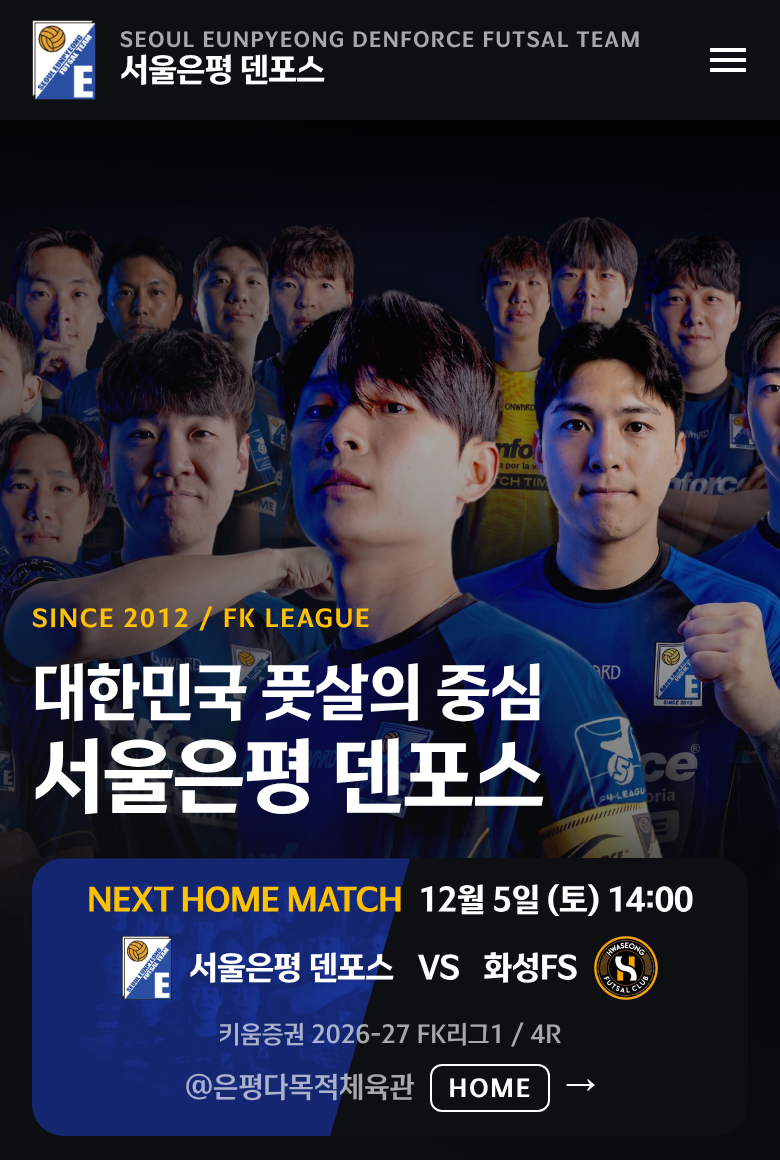
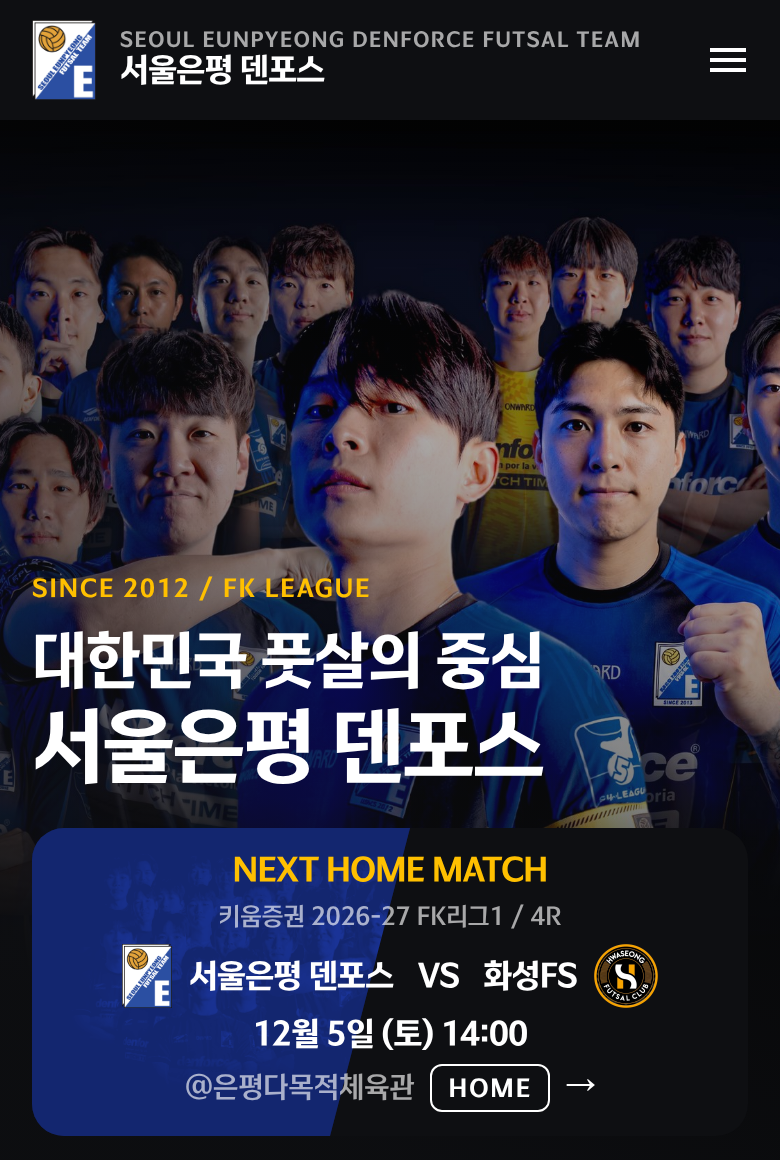
휴대폰 다음 홈경기 띠 순서 바꿈: 라벨 / 대회 / 대진 / 날짜 / 장소 5줄, 줄 사이 4, 안 쓰이는 휴대폰 카드 규칙 정리 (D-089, I-063)
Claude-Session: https://claude.ai/code/session_015na33bHmUEDGFhNLp3LnQp

Changed region(s): [[0.0308, 0.4966, 0.8923, 0.931]]

diff --git a/sites/eunpyeong-denforce/src/components/home/NextMatchHero.module.css b/sites/eunpyeong-denforce/src/components/home/NextMatchHero.module.css
@@ -171,86 +171,11 @@
   min-height: 44px;
 }
 
-@media (max-width: 720px) {
-  .card {
-    --nmh-pad: var(--space-m);
-    --nmh-col: 135px;
-    --nmh-vs: 40px;
-    --nmh-crest: 72px;
-    --nmh-split-top: 10px;
-    --nmh-split-bottom: 30px;
-    gap: var(--space-s);
-    padding: var(--nmh-pad);
-    /* 391~720 넓은 휴대폰(412 / 430 등): 카드는 358 그대로 가운데 (D-087). 390 이하는 꽉 차서 그대로 */
-    margin-inline: auto;
-  }
-
-  .team {
-    gap: var(--space-s);
-  }
-
-  /* 휴대폰은 A 이전 순서 그대로: 라벨 → 대진 → 대회 → 날짜 → @장소 + HOME → 버튼 */
-  .meta {
-    display: contents;
-  }
-
-  .meta > :first-child {
-    order: 2;
-  }
-
-  .date {
-    order: 3;
-  }
-
-  .venue {
-    order: 4;
-  }
-
-  .buttons {
-    order: 5;
-  }
-
-  .label {
-    font-size: 16px;
-  }
-
-  .teamName {
-    font-size: 20px;
-  }
-
-  .vs {
-    font-size: 28px;
-  }
-
-  .date {
-    font-size: 22px;
-  }
-
-  .button {
-    flex: 1;
-    width: auto;
-  }
-}
-
-/* 390 미만 좁은 휴대폰(375 SE/mini 포함): 팀 이름 kfa/m/h4 16, 엠블럼 칸 64 — 첫 화면 580 안 (디자인 d162b69, 768831c).
-   320 은 두 줄이 될 수 있고 첫 화면을 조금 넘는 것을 받아들인다 */
-@media (max-width: 389px) {
-  .card {
-    --nmh-crest: 64px;
-  }
-
-  .team > span:first-child {
-    --crest: 64px;
-  }
-
-  .teamName {
-    font-size: 16px;
-  }
-}
-
-/* ── 휴대폰 작은 띠 A 가운데 3줄 (D-088, 피그마 274:26795) ──────────────
-   721 이상은 위 카드(.wide), 720 이하는 띠(.strip). 폭 화면 - 32(히어로 안쪽 그대로), 높이(KFA고딕 실측) 320 168 / 360 162 / 375~430 139 / 480~720 116 / 390 긴 이름 145.
-   안쪽 여백 위아래 space/s 좌우 space/m, 줄 사이 space/xs, 줄 안 줄바꿈 사이 space/2xs. 파랑 반쪽 +10 / -30 + (다) 질감 그대로 */
+/* ── 휴대폰 작은 띠 A, 순서 바꿈 5줄 (D-089, 피그마 279:27004 / 279:27049 / 279:27094 / 279:27139) ──────────────
+   721 이상은 위 카드(.wide), 720 이하는 띠(.strip) — 휴대폰용 .card 규칙(예전 큰 카드)은 쓰이지 않아 지움(I-063).
+   ① NEXT HOME MATCH ② 대회/라운드 ③ 대진 ④ 날짜/시간 ⑤ @장소 + HOME + →. 줄 안 줄바꿈 없음(긴 상대 이름만 2줄).
+   폭 화면 - 32, 안쪽 여백 위아래 space/s 좌우 space/m, 줄 사이 space/2xs. 파랑 반쪽 +10 / -30 + (다) 질감 그대로.
+   높이(KFA고딕) 약 154, 390 긴 이름 160 */
 .stripWrap {
   display: none;
 }
@@ -269,20 +194,15 @@
     --nmh-split-top: 10px;
     --nmh-split-bottom: 30px;
     width: 100%;
-    gap: var(--space-xs);
+    gap: var(--space-2xs);
     padding: var(--space-s) var(--space-m);
     margin-inline: 0;
     text-decoration: none;
   }
 
-  /* 줄 1(라벨 + 날짜), 줄 3(대회 + 장소 덩어리) — 좁으면 덩어리째 다음 줄로, 사이 space/2xs (I-062, 디자인 f46f3d6) */
-  .stripRow {
-    position: relative;
-    display: flex;
-    flex-wrap: wrap;
-    align-items: center;
-    justify-content: center;
-    gap: var(--space-2xs) var(--space-xs);
+  /* NEXT HOME MATCH — kfa/m/h4 16 Bold yellow (넓은 카드는 20) */
+  .strip .label {
+    font-size: 16px;
   }
 
   /* [엠블럼 32 + 이름] VS [이름 + 엠블럼 32] — 엠블럼과 이름 space/xs, 이름과 VS space/s */

diff --git a/sites/eunpyeong-denforce/src/components/home/NextMatchHero.tsx b/sites/eunpyeong-denforce/src/components/home/NextMatchHero.tsx
@@ -82,8 +82,8 @@ function WideCard({ match, ourName, textured, style }: Props) {
 }
 
 /**
- * 휴대폰 작은 띠 A 가운데 3줄 (D-088, 피그마 274:26717 / 274:26795 / 274:26873 / 274:26951) — 폭 화면 - 32.
- * [NEXT HOME MATCH + 날짜] / [엠블럼 32 + 우리 이름, VS, 상대 이름 + 엠블럼] / [대회 + (@장소 + HOME + →)] — 줄 규칙은 KFA고딕 실측 기준(I-062, 디자인 f46f3d6).
+ * 휴대폰 작은 띠 A 순서 바꿈 5줄 (D-088 → D-089, 피그마 279:27004 / 279:27049 / 279:27094 / 279:27139) — 폭 화면 - 32.
+ * NEXT HOME MATCH / 대회, 라운드 / [엠블럼 32 + 우리 이름, VS, 상대 이름 + 엠블럼] / 날짜, 시간 / @장소 + HOME + →.
  * 카드 전체가 /match/schedule 링크 하나. 링크 이름은 보이는 글자 그대로 + '경기일정 보기'(→ 는 숨김), 라벨은 2단계 제목.
  */
 function PhoneStrip({ match, ourName, textured, style }: Props) {
@@ -93,14 +93,10 @@ function PhoneStrip({ match, ourName, textured, style }: Props) {
   return (
     <section className={styles.stripWrap} data-surface="dark" aria-labelledby="next-home-match-strip">
       <Link href="/match/schedule" className={`${styles.card} ${styles.strip} ${textured ? styles.textured : ""}`} style={style}>
-        <span className={styles.stripRow}>
-          <span id="next-home-match-strip" role="heading" aria-level={2} className={styles.label}>
-            NEXT HOME MATCH
-          </span>
-          <span className={styles.stripDate}>
-            {date} {time}
-          </span>
+        <span id="next-home-match-strip" role="heading" aria-level={2} className={styles.label}>
+          NEXT HOME MATCH
         </span>
+        <CompetitionTag text={matchLabel(match)} surface="dark" />
         <span className={styles.stripTeams}>
           <span className={styles.stripTeam}>
             <TeamCrest team={home} us={match.isHome} size={32} />
@@ -112,17 +108,17 @@ function PhoneStrip({ match, ourName, textured, style }: Props) {
             <TeamCrest team={away} us={!match.isHome} size={32} />
           </span>
         </span>
-        <span className={styles.stripRow}>
-          <CompetitionTag text={matchLabel(match)} surface="dark" />
-          <span className={styles.venue}>
-            {match.venue && <>@{match.venue}</>}
-            <HomeAwayBadge isHome={match.isHome} surface="dark" />
-            <span className={styles.arrow} aria-hidden="true">
-              →
-            </span>
-            {/* 카드 바로 아래 자식은 .card > * 가 position: relative 로 바꿔 자리를 차지하므로, 숨김 글자는 줄 안에 둔다 */}
-            <span className="sr-only">, 경기일정 보기</span>
+        <span className={styles.stripDate}>
+          {date} {time}
+        </span>
+        <span className={styles.venue}>
+          {match.venue && <>@{match.venue}</>}
+          <HomeAwayBadge isHome={match.isHome} surface="dark" />
+          <span className={styles.arrow} aria-hidden="true">
+            →
           </span>
+          {/* 카드 바로 아래 자식은 .card > * 가 position: relative 로 바꿔 자리를 차지하므로, 숨김 글자는 줄 안에 둔다 */}
+          <span className="sr-only">, 경기일정 보기</span>
         </span>
       </Link>
     </section>

diff --git a/sites/eunpyeong-denforce/docs/DECISION_LOG.md b/sites/eunpyeong-denforce/docs/DECISION_LOG.md
@@ -29,6 +29,12 @@
 
 <!-- 여기서부터 최신 항목을 위에 추가 -->
 
+## D-089 | 2026-11-14 | 휴대폰 다음 홈경기 띠 A 순서 바꿈: 5줄(라벨 / 대회 / 대진 / 날짜 / 장소), 줄 사이 4
+- **상태**: 채택, 기능 브랜치(배포는 총괄) (소유자 "순서 바꿈으로 ㄱㄱ", 디자인 섹션 274:26714 다섯째 줄 279:27002, 프레임 360 279:27004 / 390 279:27049 / 430 279:27094 / 390 긴 이름 279:27139)
+- **결정**: D-088 띠의 줄을 ① NEXT HOME MATCH ② 대회/라운드(CompetitionTag) ③ 대진 ④ 날짜/시간(16 Bold) ⑤ @장소 + HOME + → 로. 모든 폭 같은 구조, 줄 안 줄바꿈 없음(긴 상대 이름만 2줄). 줄 사이 space/xs → space/2xs. 안쪽 여백, 폭, 파랑 반쪽, 질감, 카드 위치(히어로 아래 12), 문구 내림(카드 위 16) 그대로. 운영 검토 반영(d35b1f5: 링크 이름 = 보이는 글자 + 숨김 ', 경기일정 보기', 라벨 role heading 2, 이름 overflow-wrap anywhere, 장소 덩어리 줄바꿈 허용) 유지.
+- **정리(I-063)**: 띠 라벨 16 을 .strip .label 로 옮기고, 720 이하에서 안 쓰이던 휴대폰 .card 묶음(.team / .meta / .date / .buttons / .teamName / .vs / .button)과 389 이하 묶음 삭제. 721 / 768 / 1280 카드 456x368, 문구 위치 그대로 확인.
+- **실측**(KFA고딕, 머리 60 포함): 카드 높이 / 문구 위 끝 — 360 / 375 / 390 / 412 / 430 / 600 / 720 모두 154 / 287, 390 긴 이름(고양불스 풋살클럽) 160 / 281, 320 160 / 281(우리 이름 2줄). 판타지아부천FS, 시흥풋볼아이, 긴 장소 넣어도 넘침 0. Tab 4번째, 초점 2px, Enter → /match/schedule.
+
 ## D-088 | 2026-11-14 | 휴대폰 다음 홈경기 = 작은 띠 A 가운데 3줄, 카드 전체가 경기일정 링크, 버튼 없음
 - **상태**: 채택, 기능 브랜치(배포는 총괄) (소유자 "카드가 차지하는 면적이 너무 커서", 띠 A 선택 — 총괄 창에서 승인. 디자인 f945746, 섹션 274:26714, 프레임 360 274:26717 / 390 274:26795 / 430 274:26873 / 390 긴 이름 274:26951)
 - **결정**: 720 이하만. 721 이상(태블릿 456, PC)은 지금 카드와 버튼 그대로. 휴대폰은 PhoneStrip — 폭 화면 - 32, 안쪽 위아래 space/s 좌우 space/m, 줄 사이 space/xs. [NEXT HOME MATCH 16 Bold yellow + 날짜 16 Bold] / [엠블럼 32 + 우리 이름 16 Bold, VS, 상대 이름 + 엠블럼 32] / [대회 태그 + (@장소 + HOME + →) 한 덩어리] (줄 규칙은 KFA고딕 실측 기준, 디자인 f46f3d6 — 처음 시안 순서는 390 에서 24 높아 바꿈, I-062). 줄 1, 줄 3은 좁으면 덩어리째 다음 줄(사이 space/2xs). 파랑 반쪽 +10 / -30 + (다) 질감 그대로. 카드 전체가 /match/schedule 링크 하나, 링크 이름은 '다음 홈경기 우리 대 상대, 날짜 시각, 장소 홈, 경기일정 보기', → 는 낭독 숨김. '오시는 길' / '경기일정' 버튼은 휴대폰에서 뺌(소유자 승인). D-087 의 휴대폰 margin-inline auto 는 띠로 대체.

diff --git a/sites/eunpyeong-denforce/docs/FIGMA_SYNC.md b/sites/eunpyeong-denforce/docs/FIGMA_SYNC.md
@@ -580,3 +580,4 @@
 - 2026-11-14 기능: D-088 휴대폰 히어로 문구 내림(디자인 be56ee2) — 문구가 띠 카드 위 16, 문구 위 끝 360 279 / 390 279 / 430 325 / 긴 이름 273(390 은 I-062 만큼 위). 721 이상 그대로. 캡처 phone-strip/code-lowered-360/390/430.png.
 - 2026-11-14 기능: I-062 줄 규칙(디자인 f46f3d6) — 줄1 라벨 + 날짜, 줄3 대회 + 장소 덩어리. 실측 카드/문구 위 360 162/279, 390 139/302, 412 139/302, 430 139/302, 긴 이름 145/296. 캡처 phone-strip/code-*.png, code-lowered-*.png 다시 찍음.
 - 2026-11-14 총괄: D-088 휴대폰 띠 A + 문구 내림 + I-062 줄 규칙 + 배포 전 검토 4건(d35b1f5) 운영 배포 dpl_BqHBccJ2JxkqLFvN1ZtXaoqq9cTA. 운영 확인: 검증 빌드와 86폭(320~720 5 간격 + 721/768/1024/1280/1920) 위치·크기 같음, 카드 360 162 / 390 139 / 430 139, 문구 위 279 / 302 / 302, 긴 이름·긴 장소 넣어도 넘침 0, 링크 이름 = 보이는 글자 + 경기일정 보기, 'NEXT HOME MATCH' 2단계 제목, 홈 6폭 콘솔 오류·/_next/image 0. 다음: 소유자 제안 줄 순서 바꿈 시안(279:27002) 선택 대기.
+- 2026-11-14 기능: 띠 A 순서 바꿈(D-089, 279:27004 / 279:27049 / 279:27094 / 279:27139) — 5줄, 줄 사이 4, I-063 정리. 실측 카드 154 / 문구 위 287(360~720), 긴 이름 160 / 281. 721 이상 그대로. 캡처 phone-strip/code-*.png, code-lowered-*.png 다시 찍음.

diff --git a/sites/eunpyeong-denforce/docs/KNOWN_ISSUES.md b/sites/eunpyeong-denforce/docs/KNOWN_ISSUES.md
@@ -28,7 +28,7 @@
 <!-- 최신 항목을 위에 추가. 심각도 '높음'은 발견 즉시 소유자에게 별도 보고 -->
 
 ## I-063 | 2026-11-14 | NextMatchHero.module.css 휴대폰 .card 묶음 대부분이 띠 A 뒤 쓰이지 않는데, 띠 라벨 16 이 그 안의 .label 한 줄에 기대고 있다
-- **상태**: 열림 (범위 밖 정리 — 기록만)
+- **상태**: 해결(2026-11-14, D-089 — 라벨 16 을 .strip .label 로, 안 쓰이는 휴대폰 .card 묶음과 389 이하 묶음 삭제)
 - **심각도**: 낮음
 - **증상/내용**: 720 이하에서 .wide 가 display none 이라 휴대폰 .card 묶음의 .team / .meta / .date / .buttons / .teamName / .vs / .button 과 389 이하 묶음은 화면에 영향이 없다. 그런데 띠의 'NEXT HOME MATCH' 16 은 같은 묶음의 `.label { font-size: 16px }` 으로 정해진다. 묶음을 통째로 지우면 띠 라벨 크기가 바뀐다.
 - **해결 방향**: 다음에 띠를 손볼 때(줄 순서 바꿈 시안 등) .strip .label 로 옮기고 남은 휴대폰 .card 규칙을 지운다.
